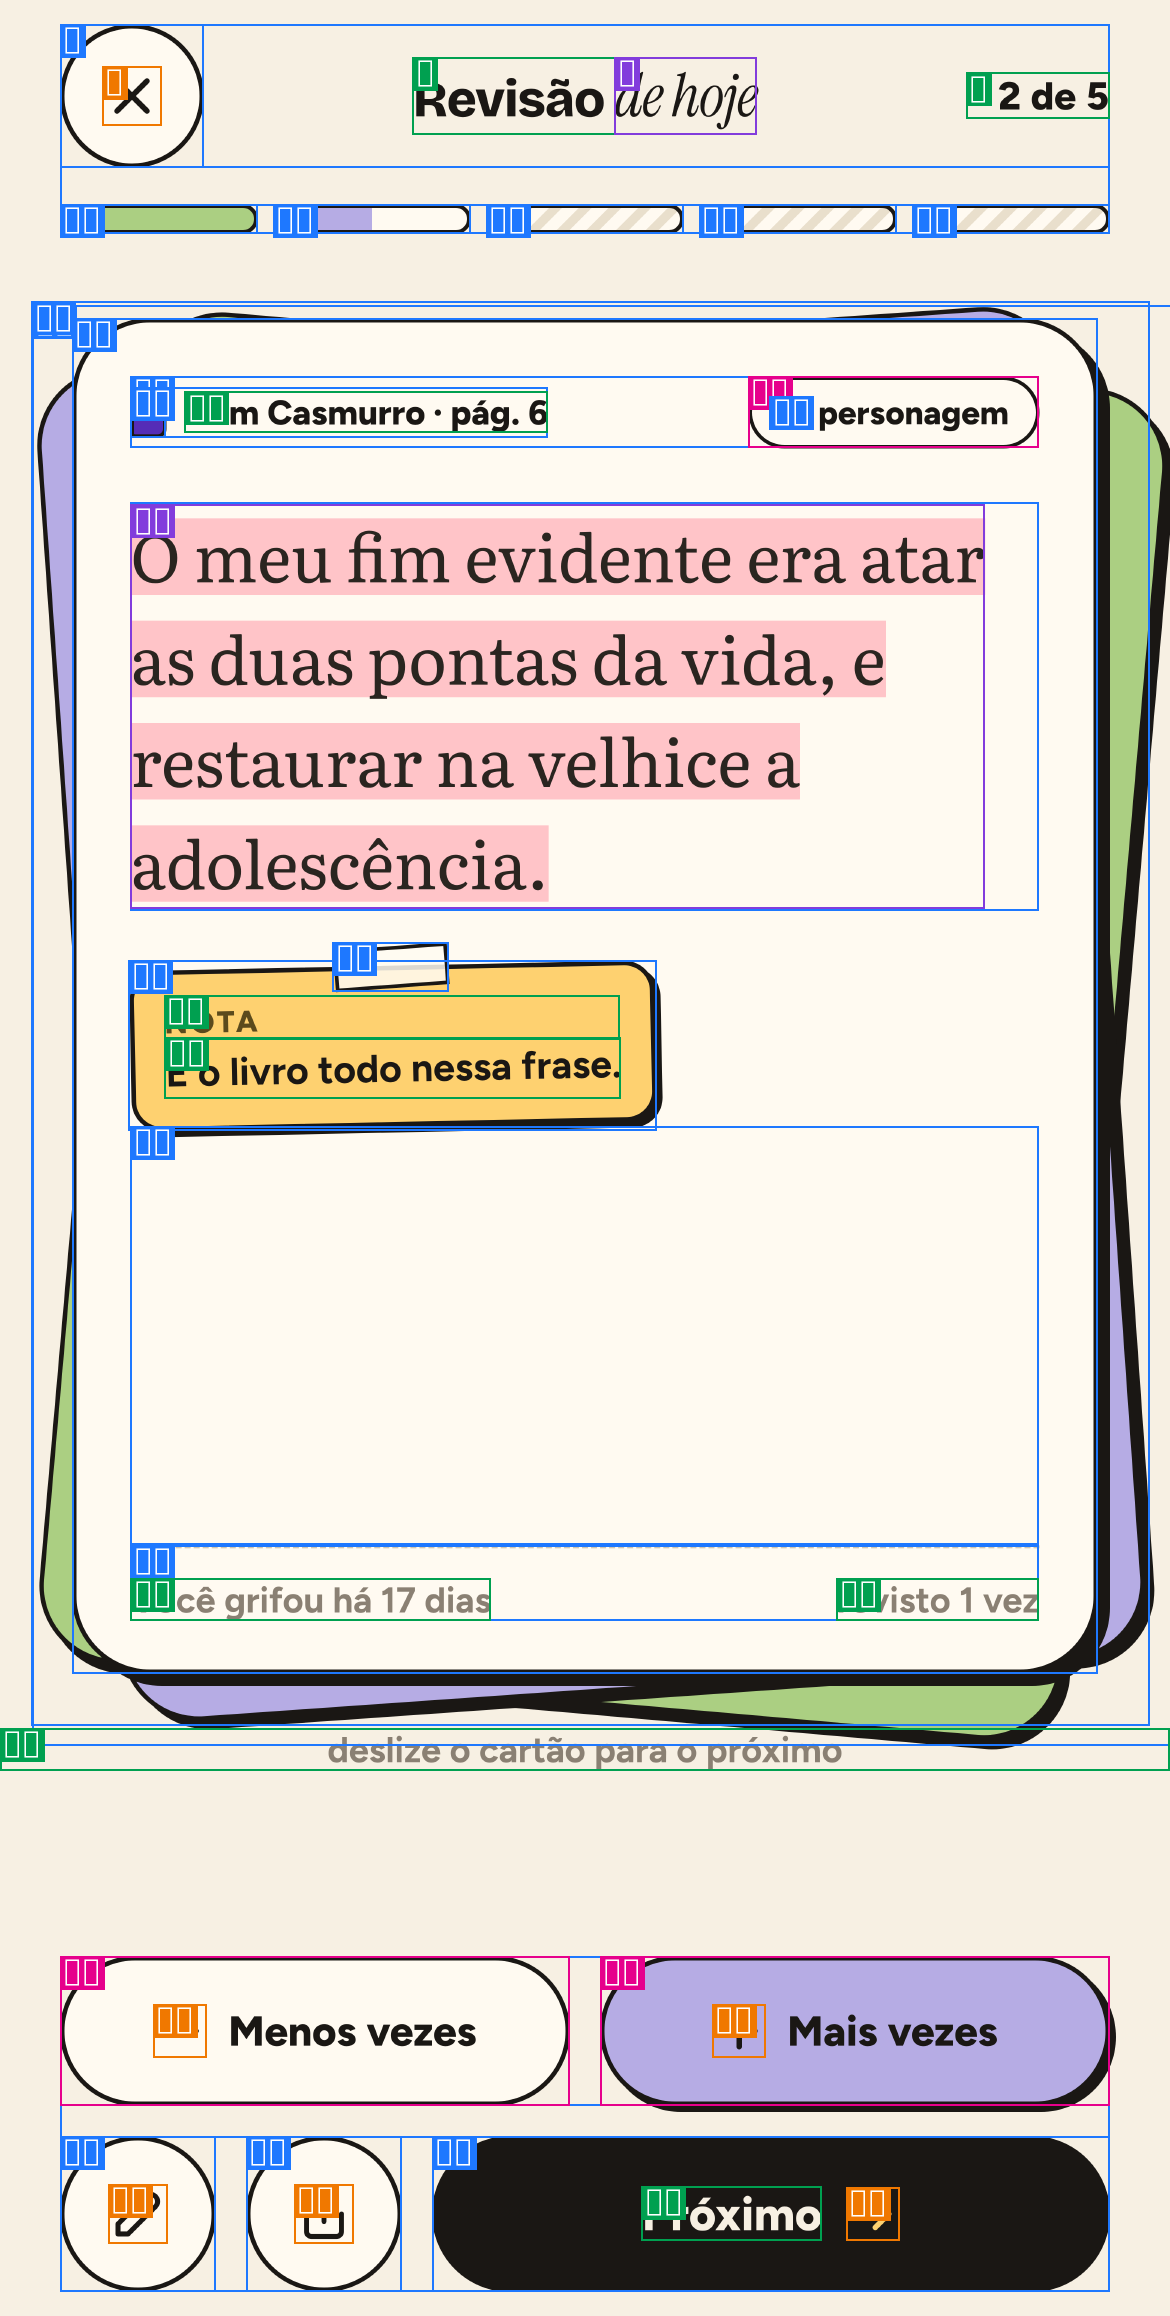
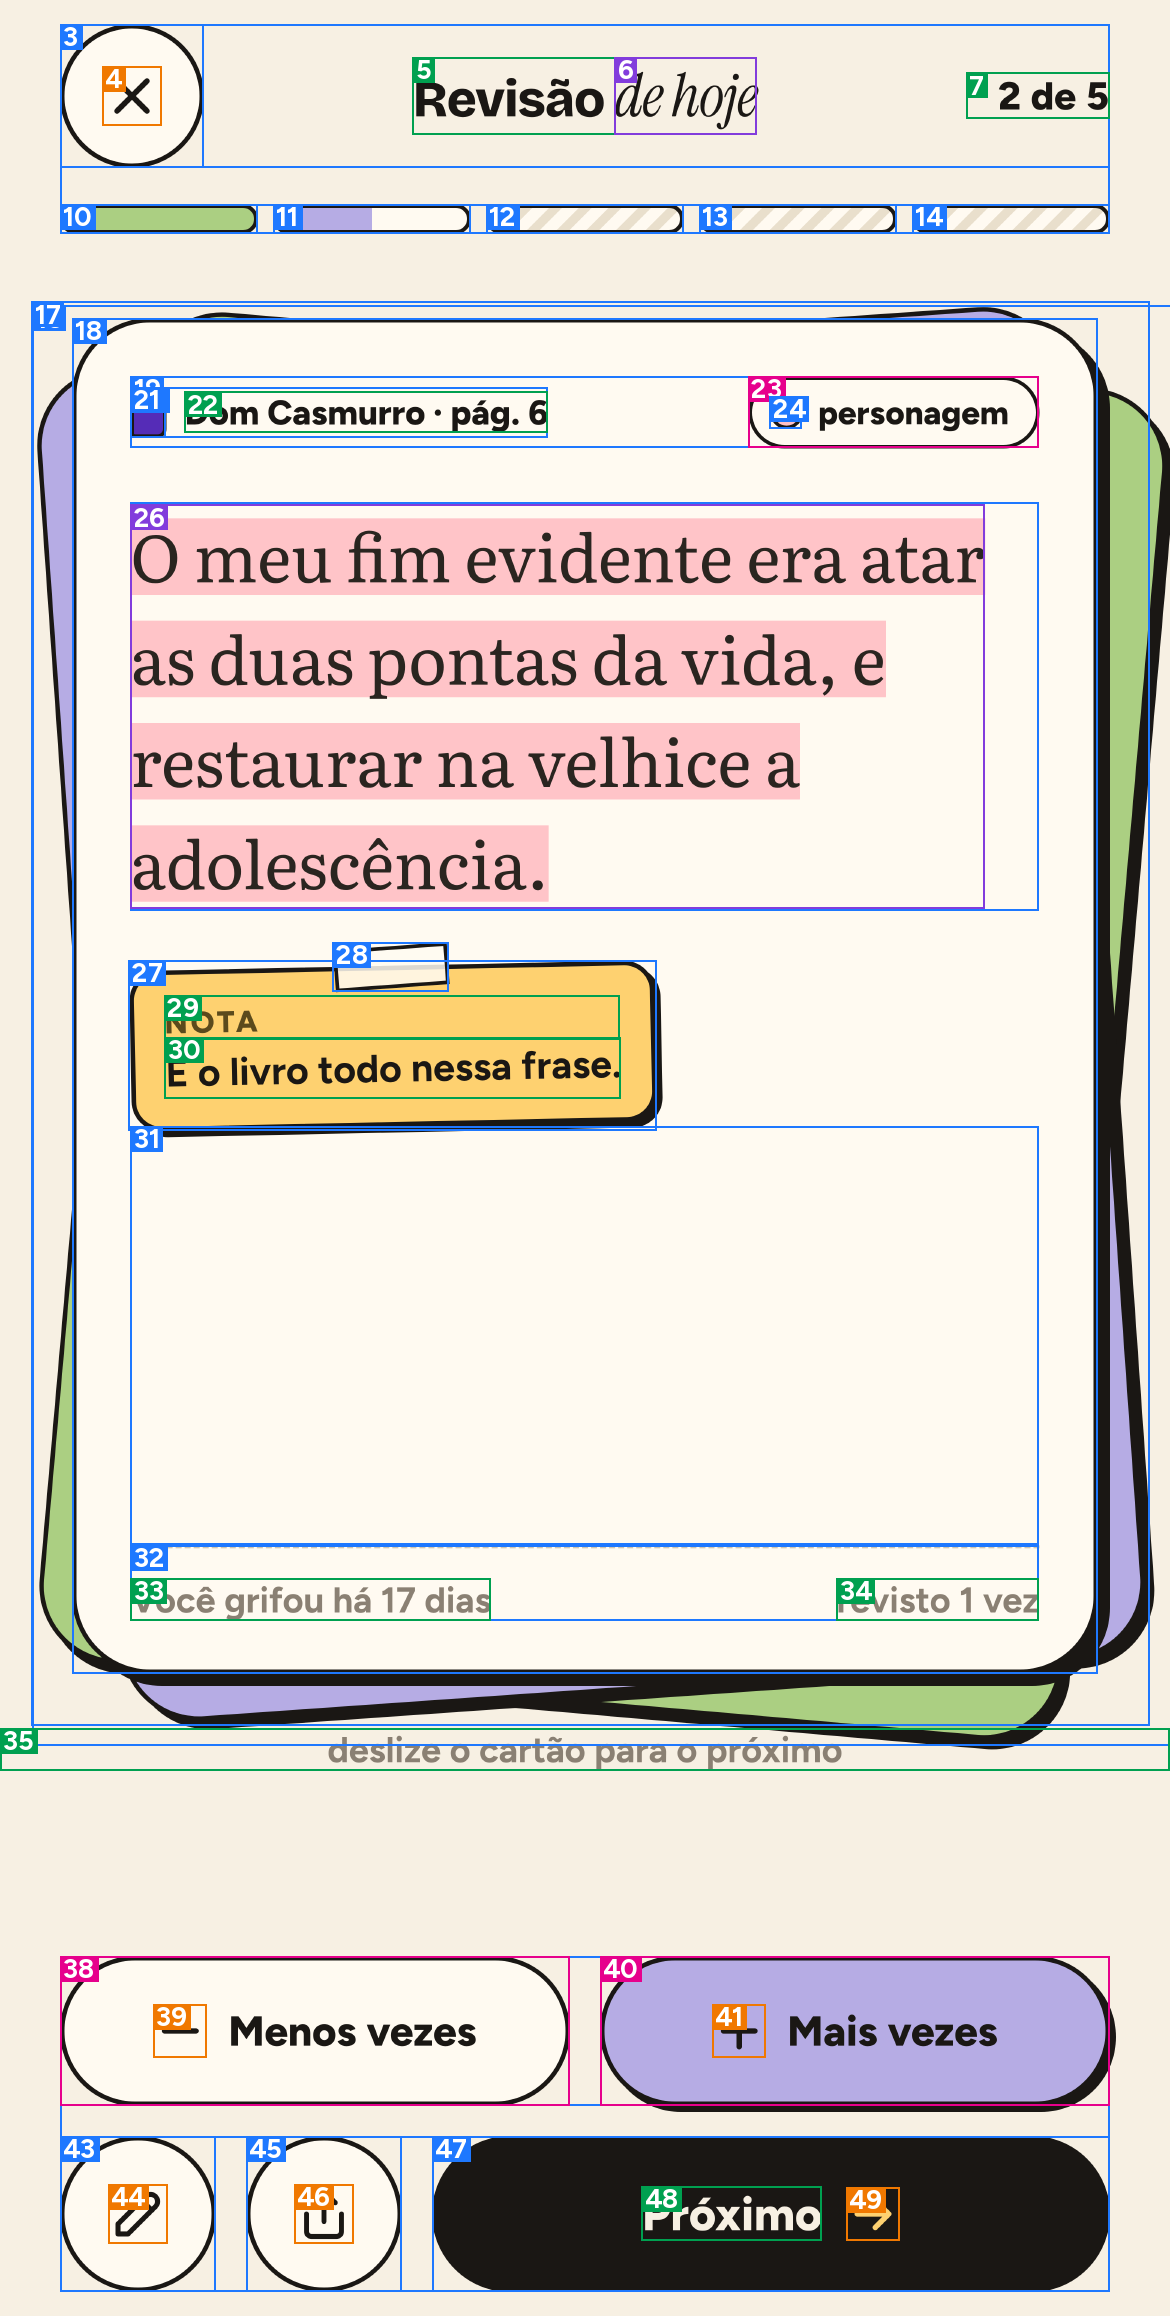
fix(medicao): os redlines da Início com os números (T13 · D-274)
O recortar.py desenha os rótulos dos redlines com a 1ª face da Figtree do layout; na Início (T02) ela
era o subconjunto latin-ext, sem dígitos, e os 14 redlines saíram com quadradinhos no lugar dos
números (a legenda.json estava certa). Agora ele usa a 1ª face da Figtree que tem os dígitos (e
falha se nenhuma tiver). Os 14 redlines refeitos são byte a byte os da conferência da T13.3; o
manifesto da T02 muda só nessas 14 linhas. O leitor (G01) e a T14 não mudam.

D-274 e D-275 (o fio de navalha de uma linha no projeto) registradas.

diff --git a/tools/medicao/recortar.py b/tools/medicao/recortar.py
@@ -33,17 +33,22 @@ MARGEM = 8
 
 def fonte_rotulo(px):
     """Figtree (woff2 embutido no arquivo) → TTF em memória → Pillow com wght 700. A da 20 no leitor (como na G01);
-    nos outros conjuntos, a da 1ª prancha que a declara."""
+    nos outros conjuntos, a da 1ª prancha que a declara. D-274: a 1ª face da Figtree que tem os dígitos — na T02 a 1ª
+    face da Início era o latin-ext, sem eles, e os números dos redlines saíram como quadradinhos."""
     slugs = ['20_leitor_controles'] if '20_leitor_controles' in PR else list(PR)
-    asset = slug = None
+    tt = None
     for slug in slugs:
         for f in json.load(open(os.path.join(LAYOUT, f'layout_{slug}.json'), encoding='utf-8'))['fontFaces']:
-            if f['family'] == 'Figtree':
-                asset = f['asset']
+            if f['family'] != 'Figtree':
+                continue
+            cand = TTFont(caminho('extracao', slug, 'assets', f"{f['asset']}.woff2"))
+            if all(c in cand.getBestCmap() for c in range(0x30, 0x3A)):
+                tt = cand
                 break
-        if asset:
+        if tt:
             break
-    tt = TTFont(caminho('extracao', slug, 'assets', f'{asset}.woff2'))
+    if tt is None:
+        raise SystemExit('recortar.py: nenhuma face da Figtree com os dígitos para os rótulos dos redlines')
     tt.flavor = None
     buf = io.BytesIO()
     tt.save(buf)

diff --git a/docs/progresso/PLANO_FIDELIDADE_TELAS.md b/docs/progresso/PLANO_FIDELIDADE_TELAS.md
@@ -13,7 +13,7 @@
 > respondidas em 11/10/2026 (as recomendadas); as D-269 e D-270, dos achados da prova no celular (o "Para você" do
 > modo demonstração e o título curto), também (as recomendadas); detalhe em `docs/progresso/R00.md` e
 > `R00_celular.md`. As D-271…D-273 vieram do começo da T13 (o escopo da medição do projeto, as larguras e as fontes
-> de fora do arquivo), respondidas em 11/10/2026 (as recomendadas); detalhe em `docs/progresso/T13.md`. Desde
+> de fora do arquivo), respondidas em 11/10/2026 (as recomendadas), e as D-274 e D-275 dos achados da T13 (os redlines da Início sem números e o fio de navalha de uma linha), também (as recomendadas); detalhe em `docs/progresso/T13.md`. Desde
 > 10/10/2026 a ordem das
 > etapas é a do `docs/ROTEIRO.md`; esta tabela continua sendo o registro das decisões.
 > Formato do roteiro: `handoff_v2/00_PROMPT_MESTRE_V2.md` §6 (trilha T: G01-bis → uma fase por tela → integração),
@@ -51,8 +51,8 @@
 
 ## 3. Decisões novas (D-239 em diante) — aprovadas em 10/10/2026
 
-A última decisão usada antes desta tabela era a D-238 (G22); a tabela vai até a D-273 (T13) e a próxima livre é a
-D-274.
+A última decisão usada antes desta tabela era a D-238 (G22); a tabela vai até a D-275 (T13) e a próxima livre é a
+D-276.
 
 | ID | Proposta | Alternativa |
 |---|---|---|
@@ -91,6 +91,8 @@ D-274.
 | **D-271** | **A T13 mede as 41 telas das etapas 7–11 por completo**, como a T02 fez com a Início: ids semânticos de todos os elementos, layout, texto, estilos, PNG @1x/@2x/@3x, recortes, redlines, referências Dart, fontes, SVGs, tokens, mapa id → widget e fases L; as etapas T14–T18 começam com tudo medido. | Ferramenta + medição bruta (ids automáticos), o resto em cada etapa · ferramenta + só as 4 da T14 |
 | **D-272** | **As 41 telas também a 360 e 430 px** (o quadro com a largura trocada, CSS fluido, como a T03 fez com a 01), com a lista das telas que não se adaptam a 360. | Cada etapa mede as larguras das suas telas |
 | **D-273** | **Fontes de fora do arquivo:** as respostas do `css2` das consultas novas e os `.woff2` da Roboto 500 (o botão do Google na 07) baixados do Google Fonts, com URL e sha256 no manifesto, conferindo que as outras fontes são as mesmas versões que já temos; o texto em fonte do sistema (o botão da Apple na 07, o teclado do sistema na 69/69b) medido e marcado informativo. | Não baixar: a 07 medida com a reserva do Linux e o botão do Google informativo, a fonte decidida na T16 |
+| **D-274** | **Os redlines da Início (T02) refeitos com números:** o `recortar.py` desenha os rótulos com a 1ª face da Figtree que tem os dígitos (e falha se nenhuma tiver); os 14 redlines da `inicio2` saem de novo e o manifesto da T02 muda só nesses 14 arquivos. | Deixar os 14 redlines com quadradinhos (a `legenda.json` tem os números); corrigir numa etapa própria |
+| **D-275** | **Fio de navalha de uma linha, no projeto (T13 em diante):** a linha única que pode quebrar, numa caixa de largura imposta, com sobra entre 0 e 1,5 px entra nos fios de navalha (medida pela largura real da linha); o leitor e a Início ficam como estão. | Incluir também no leitor e na Início (G01/T02 mudam); manter a regra da G01 e só anotar nas fases L |
 
 ## 4. As fases
 

diff --git a/docs/progresso/T13.md b/docs/progresso/T13.md
@@ -3,7 +3,7 @@
 > Branch `feat/t13-medicao-projeto`, a partir da `main` em `debd9ed` (a R00 inteira, já no GitHub) · início 11/10/2026
 > Fonte: `docs/ROTEIRO.md` §3 (etapa 6) e §6b · modelo: a T02 (`docs/progresso/T02.md`) · `docs/design/projeto/`
 > (`CATALOGO.md`, `NOTAS.md`, `dc-runtime.js`) · R00 (`docs/progresso/R00.md`, `tools/medicao/renderizar_dc.js`,
-> `conferencia_projeto.md`) · D-242, D-246, D-249, D-268 e as novas D-271…D-273
+> `conferencia_projeto.md`) · D-242, D-246, D-249, D-268 e as novas D-271…D-275
 > **Respostas de 11/10/2026:** as 3 perguntas e a aprovação da spec e do plano com as opções recomendadas.
 
 ## Contexto — o que o levantamento achou (11/10/2026)
@@ -74,6 +74,8 @@
 | D-271 | **Nova, respondida em 11/10/2026:** as 41 telas medidas por completo (ids semânticos, layout, PNGs, recortes, redlines, referências Dart, fontes, SVGs, tokens, mapa e fases L). |
 | D-272 | **Nova, respondida em 11/10/2026:** as 41 também a 360 e 430 px (T13.9). |
 | D-273 | **Nova, respondida em 11/10/2026:** a Roboto 500 e as respostas do `css2` das consultas novas baixadas do Google Fonts (URL e sha256 no manifesto, versões das outras conferidas); o texto em fonte do sistema (Apple na 07, teclado na 69/69b) medido e marcado informativo (R8). |
+| D-274 | **Nova, respondida em 11/10/2026 (T13.3):** os 14 redlines da Início refeitos com números — o `recortar.py` usa a 1ª face da Figtree com os dígitos; o manifesto da T02 muda só nesses 14. |
+| D-275 | **Nova, respondida em 11/10/2026 (T13.4):** no projeto, a linha única que pode quebrar, em caixa de largura imposta, com sobra entre 0 e 1,5 px é fio de navalha (pela largura real da linha); o leitor e a Início como estão. |
 
 ## Regras derivadas (para aprovar com esta spec)
 
@@ -189,7 +191,10 @@ pelo método:
 3. **Os números dos redlines da inicio2:** o `recortar.py` desenha os rótulos com a 1ª face da Figtree do layout. Na
    T02 ela era o latin-ext 400, **sem os dígitos** — os 14 redlines da inicio2 commitados têm quadradinhos no lugar dos
    números (a `legenda.json` tem os números certos). Com a extração nova a 1ª face é o latin 400 e os números saem. O
-   comparador prova que todo pixel diferente está dentro de um rótulo. Corrigir os redlines da T02 é a pergunta D-274.
+   comparador prova que todo pixel diferente está dentro de um rótulo. **D-274:** o `recortar.py` passou a usar a 1ª
+   face da Figtree que tem os dígitos (e falha se nenhuma tiver); os 14 redlines da Início refeitos saem byte a
+   byte iguais aos da conferência, e o `T02_hashes_saida.txt` mudou só nessas 14 linhas (os da T14 e do leitor
+   não mudam: a 1ª Figtree deles já é o latin).
 
 ### T13.4 · As telas da T14 (02, 36, 17, 17b)
 

diff --git a/docs/progresso/T02.md b/docs/progresso/T02.md
@@ -166,7 +166,8 @@ L01b (a referência visual abaixo de 844), L61 (D-251), L62 (D-250) e L63 (R3) f
 - Reprodutibilidade: `CONJUNTO=inicio2 bash tools/medicao/rodar_tudo.sh` (WSL) várias vezes → `hashes_saida.txt` (152
   arquivos) comparados entre rodadas. Manifesto versionado: `docs/progresso/T02_hashes_saida.txt`, conferido contra os
   blobs do commit (não só a cópia de trabalho) — os 152, com o relatório da extração agora versionado. As saídas novas
-  ficam sem conversão de fim de linha (`.gitattributes`, como as da G01).
+  ficam sem conversão de fim de linha (`.gitattributes`, como as da G01). Na T13 (D-274) os 14 redlines foram refeitos com os números (a
+  1ª face da Figtree da Início era o latin-ext, sem dígitos) e o manifesto mudou só nessas 14 linhas.
 - G01 intacta: `CONJUNTO=leitor_conferencia` refaz a G01 inteira em `tools/medicao/tmp/conferencia_g01/` e um comparador
   confere arquivo a arquivo com o commitado (os tokens com os de `lib/core/design_system/tokens/` do commit `cbfc021`,
   os da época da G01.10).
